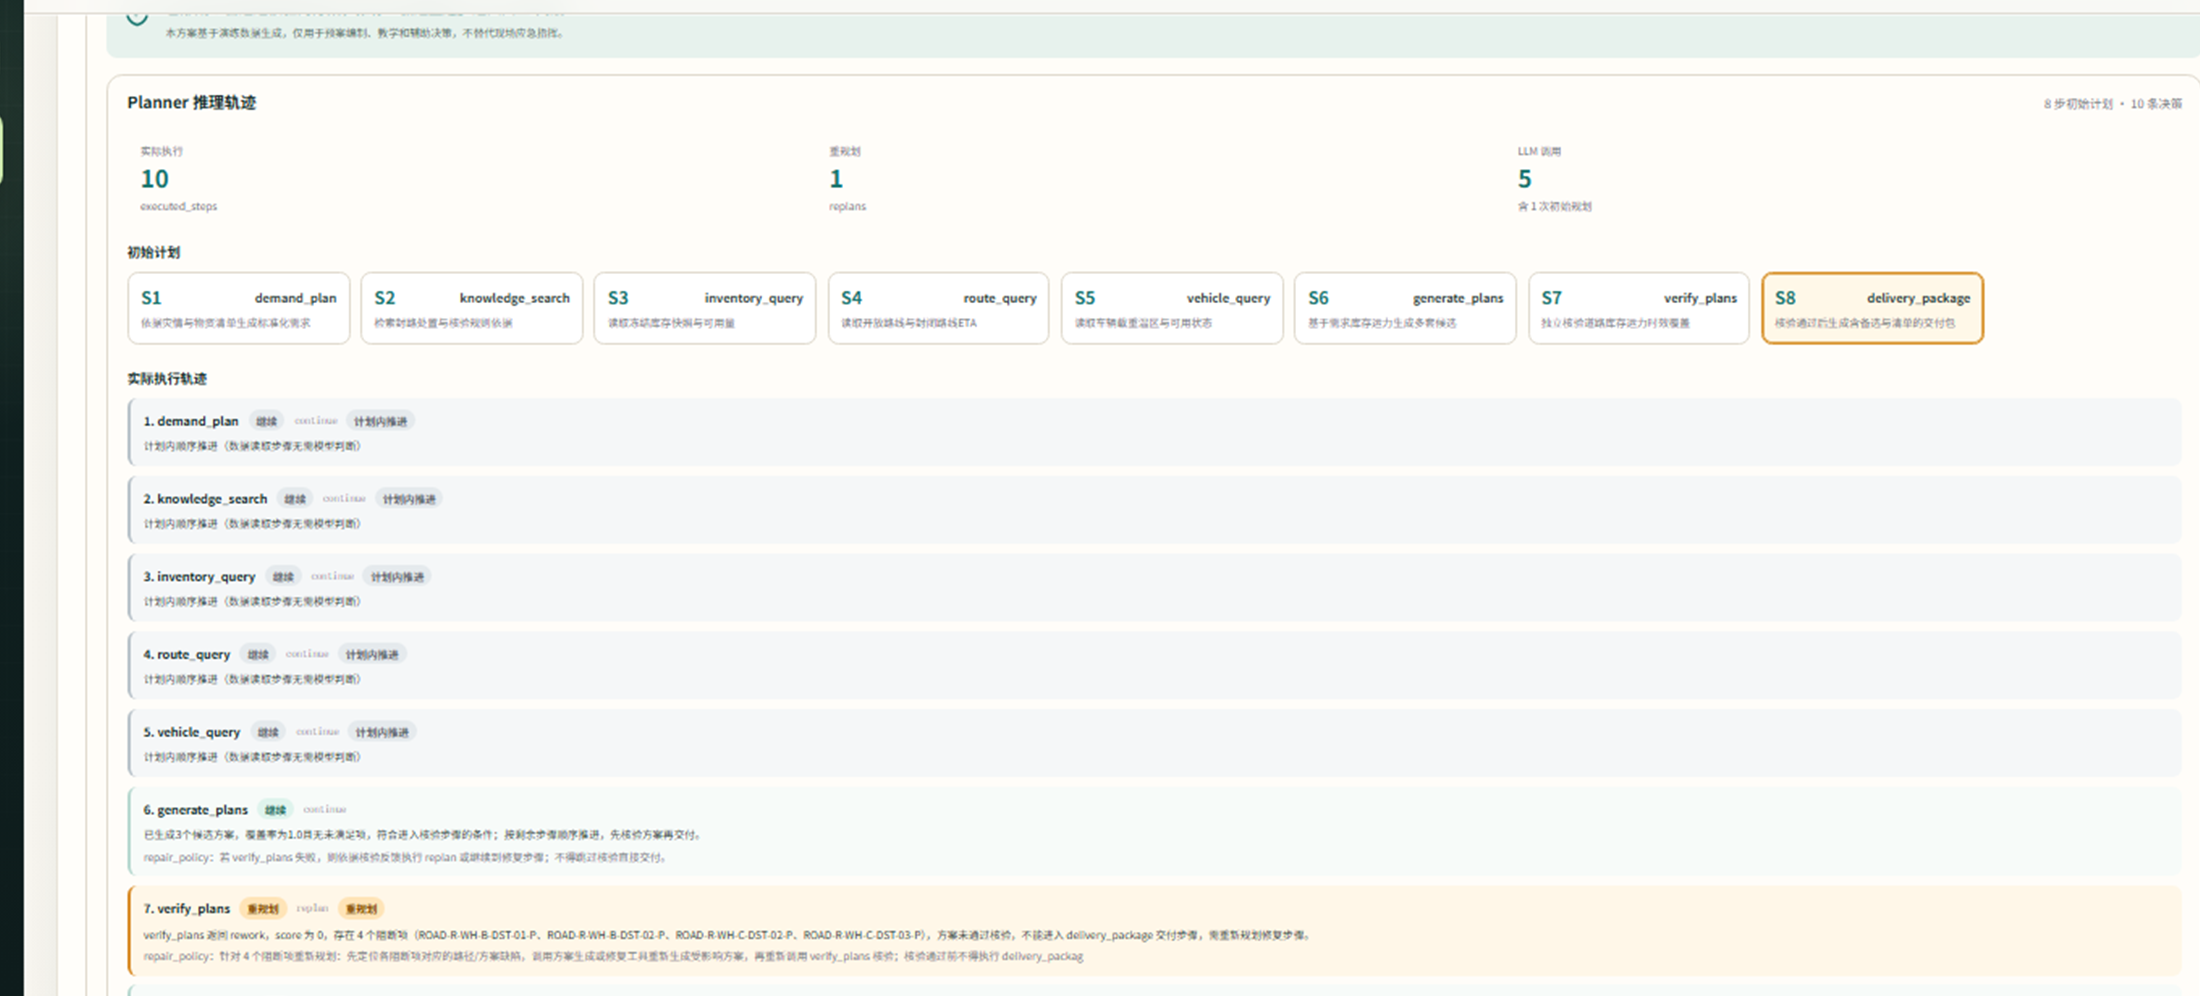
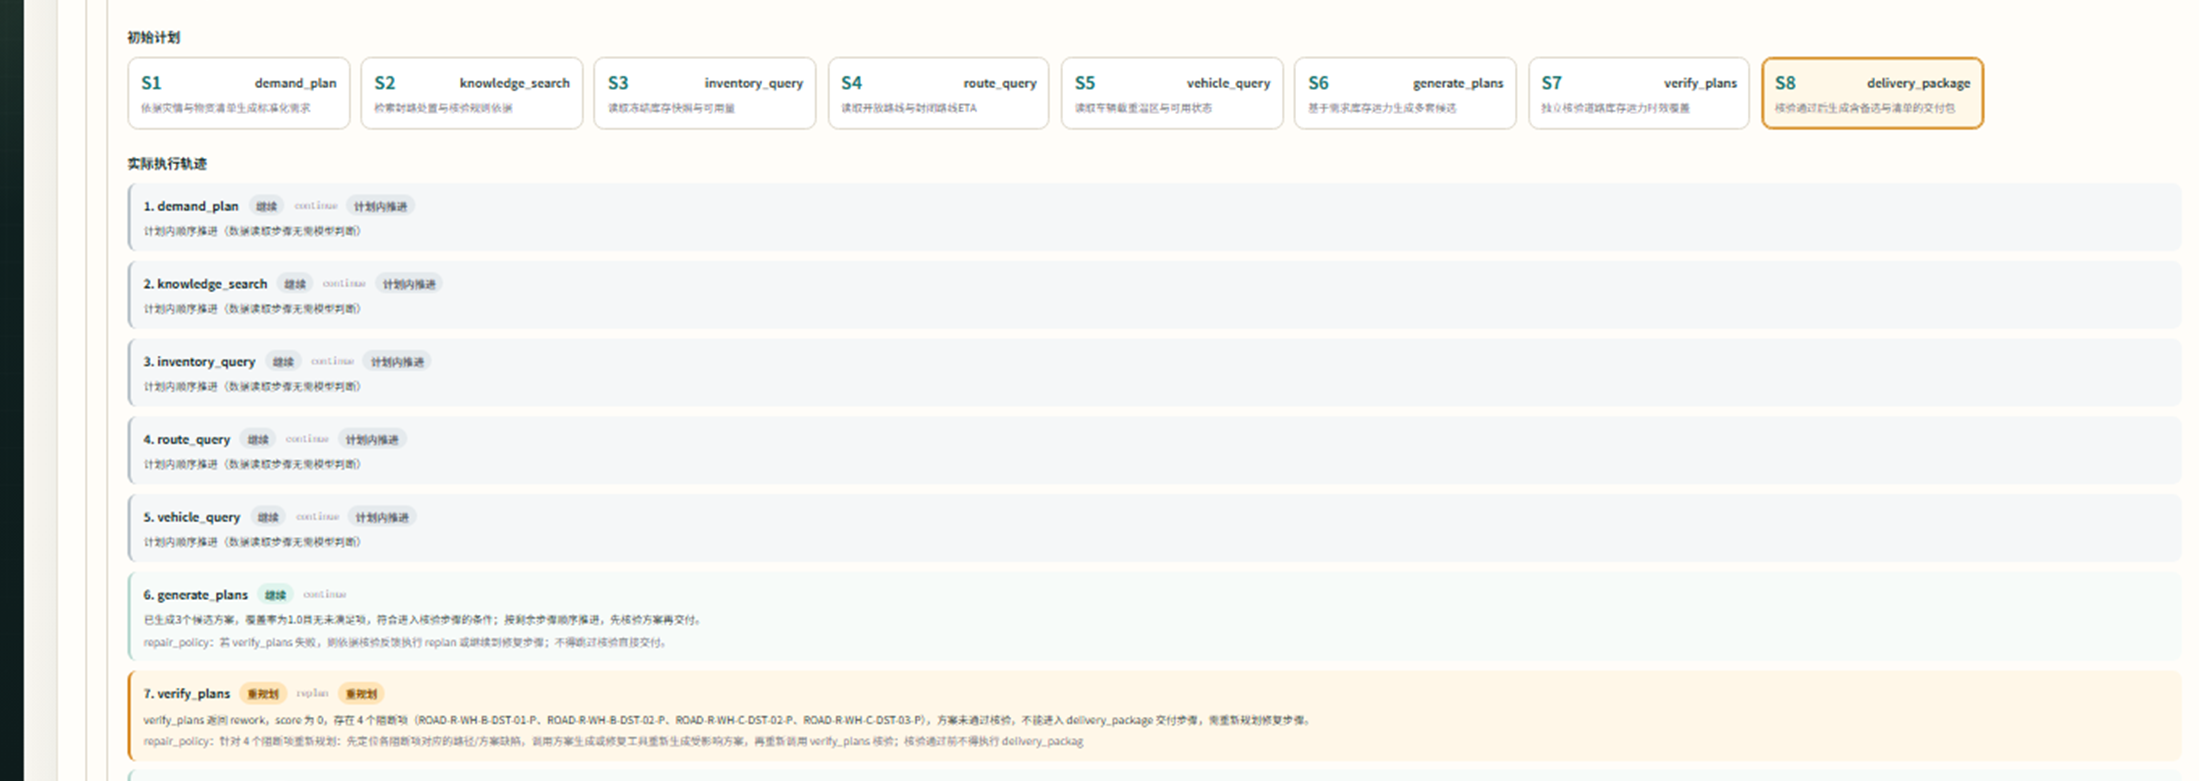
fix: PPT 第 11 页改用 F769 真实 LLM 调用次数
- 截图内的统计条来自旧运行 0401（LLM 调用 5 次），与方案书 3 次冲突，裁掉顶部统计条
- 页面统计块由「5 LLM 决策次数」更正为「3 LLM 调用次数」，与 llm_calls 表三条记录一致
- 截图下移收紧，修复截图底边压住统计数字的问题

diff --git a/tools/build_ppt.py b/tools/build_ppt.py
@@ -427,13 +427,13 @@ def build() -> Path:
     # ── 12 03 应用成效：真实轨迹 ─────────────────────────────────────────
     slide = prs.slides.add_slide(content)
     page_title(slide, "03　应用成效", "Planner 真实轨迹：8 步计划 · 10 步执行 · 1 次重规划")
-    picture(slide, SHOTS / "ppt_planner.png", 0.66, 1.88, 12.0, 4.32, trim=(0.021, 0.0, 0.0, 0.0))
+    picture(slide, SHOTS / "ppt_planner.png", 0.86, 1.78, 11.6, 4.12, trim=(0.021, 0.0, 0.0, 0.0))
     metrics = [("10", "实际执行步骤", BLUE), ("1", "触发重规划", ORANGE),
-               ("5", "LLM 决策次数", TEAL), ("8", "初始计划步骤", MUTED)]
+               ("3", "LLM 调用次数", TEAL), ("8", "初始计划步骤", MUTED)]
     for index, (value, label, accent) in enumerate(metrics):
         left = 0.66 + index * 3.02
-        text(slide, left, 6.34, 0.72, 0.34, value, 17, accent, True)
-        text(slide, left + 0.42, 6.44, 2.4, 0.24, label, 9.5, MUTED)
+        text(slide, left, 6.02, 0.72, 0.34, value, 17, accent, True)
+        text(slide, left + 0.42, 6.12, 2.4, 0.24, label, 9.5, MUTED)
     page_foot(slide, 11, "急先锋 · Planner 轨迹面板    演练数据，不替代现场指挥")
 
     # ── 13 03 应用成效：阶段耗时与基准 ───────────────────────────────────
